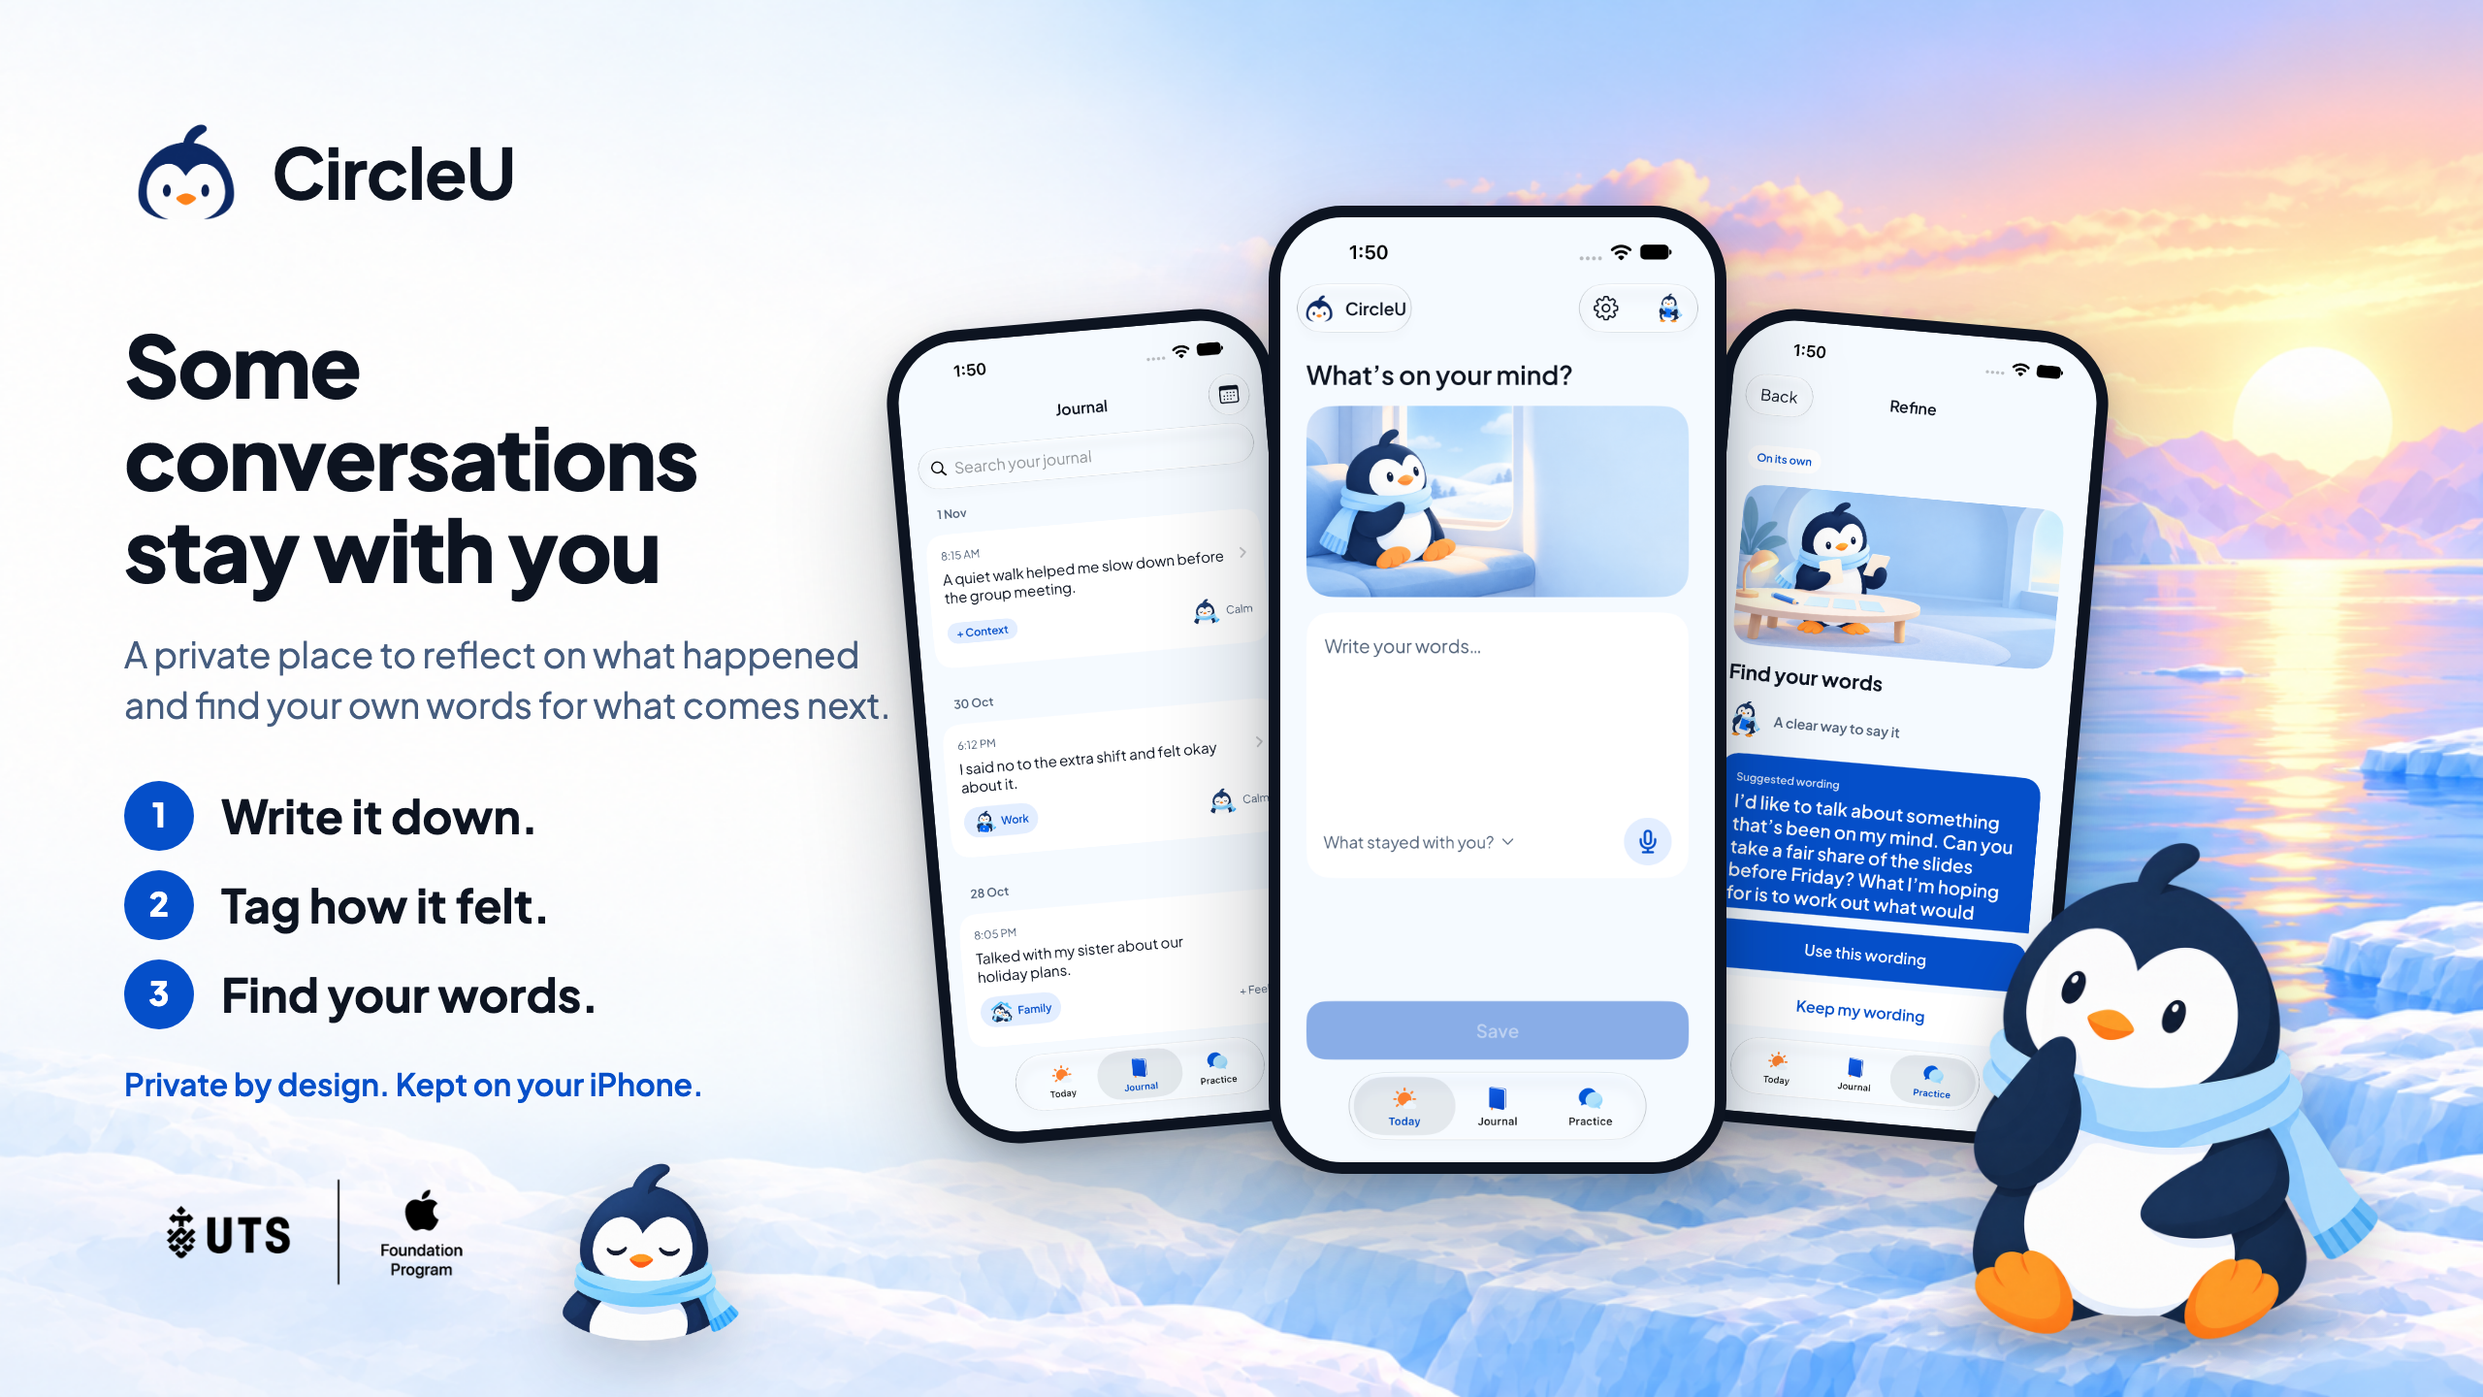
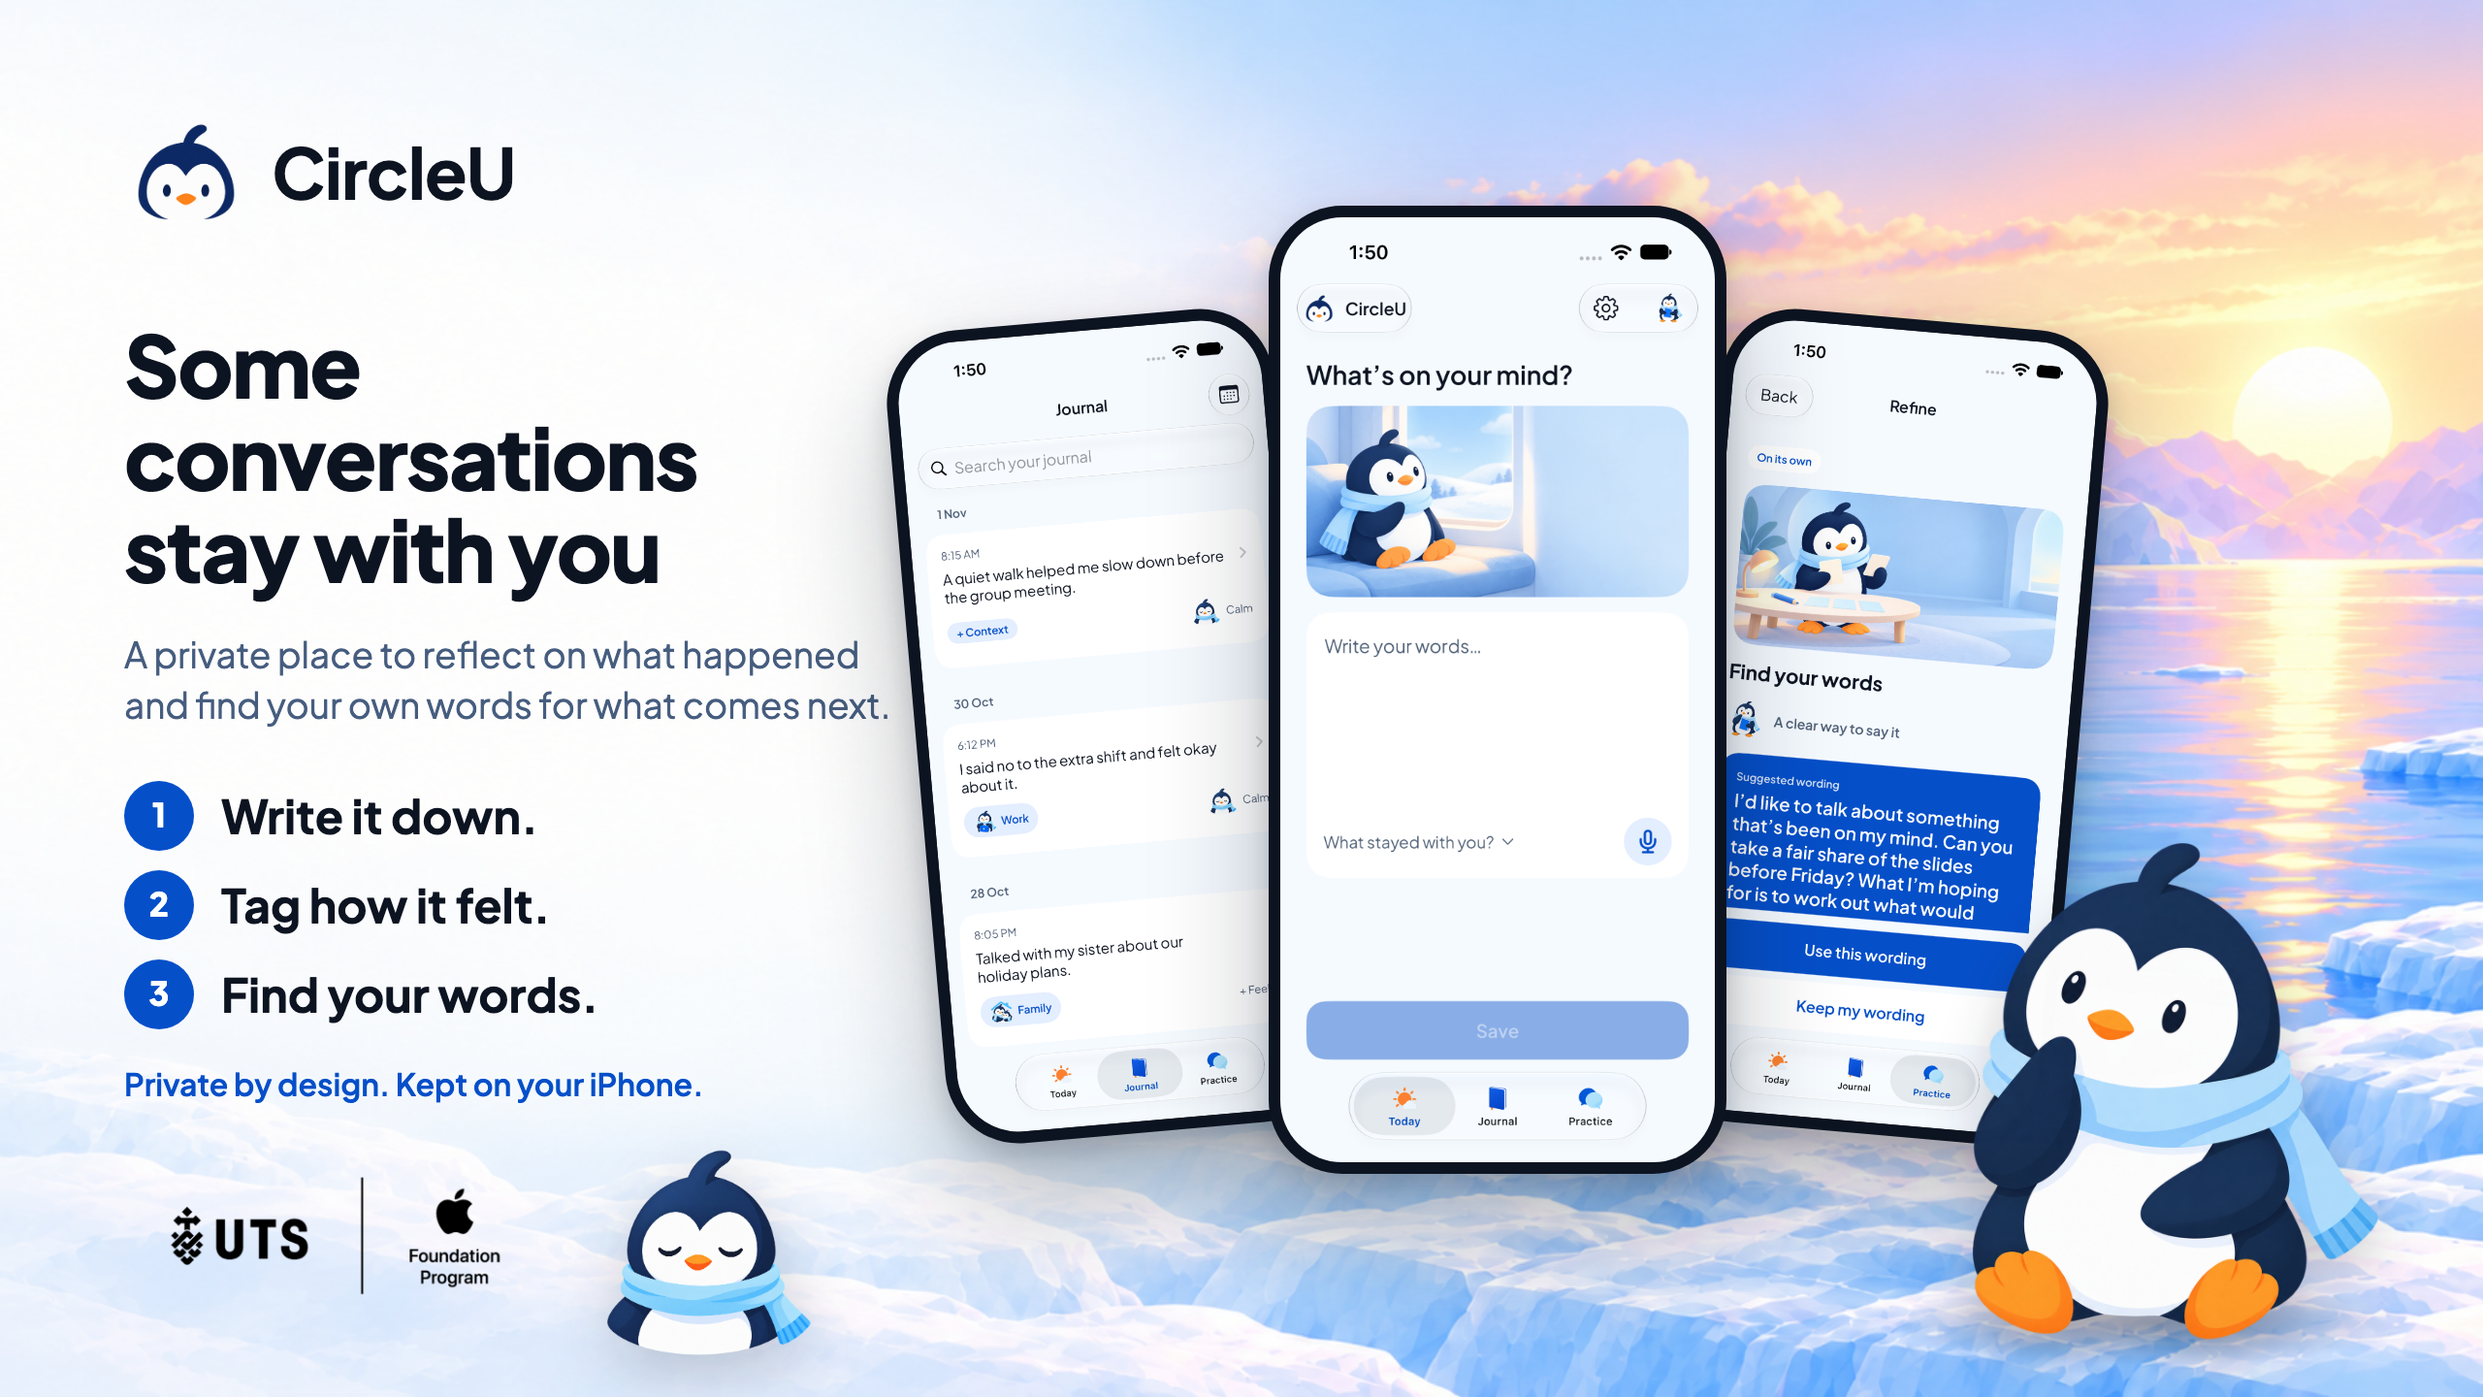
docs(poster): lockup blends on the LinkedIn page too, at Pingu's height; two more brand boards

Changed region(s): [[0.0625, 0.8125, 0.3438, 0.9688]]

diff --git a/docs/design/showcase-2026-10-30/refinement-07/linkedin/brand-2.html b/docs/design/showcase-2026-10-30/refinement-07/linkedin/brand-2.html
@@ -1,0 +1,46 @@
+<!doctype html><html lang="en"><head><meta charset="utf-8"><title>CircleU brand guideline · idea and logo</title>
+<style>
+@font-face{font-family:"Plus Jakarta Sans";src:url("assets/PlusJakartaSans.ttf");font-weight:200 800}
+*{box-sizing:border-box;margin:0;padding:0}html,body{width:1200px;height:627px;overflow:hidden}
+body{font-family:"Plus Jakarta Sans",sans-serif;color:#0d1421;background:#f5faff;padding:40px 48px;position:relative}
+.head{display:flex;align-items:center;gap:14px}.head img{width:50px;height:50px}.head b{font-size:30px;font-weight:800;letter-spacing:-.5px}
+.head small{margin-left:auto;font-size:14px;color:#465d7f;font-weight:600}
+.grid{display:grid;grid-template-columns:1.15fr 1fr 1fr;gap:24px;margin-top:26px;height:490px}
+.card{background:#fff;border-radius:22px;padding:22px 24px;box-shadow:0 8px 24px rgba(13,20,33,.06)}
+.card h3{font-size:12px;font-weight:700;color:#054fc9;text-transform:uppercase;letter-spacing:.08em;margin-bottom:12px}
+.idea p{font-size:15.5px;line-height:1.5;color:#2f4260;margin-bottom:10px}.idea p b{color:#0d1421}
+.idea .q{font-size:22px;font-weight:800;line-height:1.15;margin:4px 0 14px;letter-spacing:-.3px}
+.logo{display:flex;flex-direction:column;gap:14px}
+.logo .row{display:flex;align-items:center;gap:12px}.logo .row img{width:64px;height:64px}.logo .row b{font-size:34px;font-weight:800;letter-spacing:-.5px}
+.logo .mono{display:flex;gap:10px}.logo .mono div{flex:1;border-radius:14px;height:86px;display:flex;align-items:center;justify-content:center}
+.logo .mono img{width:56px;height:56px}
+.logo .clear{position:relative;border:1.5px dashed #b9cbe6;border-radius:14px;height:96px;display:flex;align-items:center;justify-content:center}
+.logo .clear img{width:48px;height:48px}.logo .clear span{position:absolute;font-size:10px;color:#6b7f9c}
+.logo p{font-size:12.5px;color:#465d7f;line-height:1.45}
+.mascot{display:flex;flex-direction:column}.mascot .faces{display:flex;justify-content:space-around;align-items:flex-end;margin:6px 0 10px}.mascot .faces img{width:88px;height:88px}
+.mascot p{font-size:13px;color:#465d7f;line-height:1.45}.mascot p b{color:#0d1421}
+.mascot .rules{margin-top:10px;display:grid;grid-template-columns:1fr 1fr;gap:6px 12px;font-size:12px;color:#2f4260}
+.mascot .rules span::before{content:"✓ ";color:#054fc9;font-weight:800}.mascot .rules span.x::before{content:"✕ ";color:#c0392b}
+</style></head><body>
+<div class="head"><img src="assets/logo.png" alt=""><b>CircleU</b><small>Brand guideline · 1 of 2 · Idea, logo, mascot</small></div>
+<div class="grid">
+  <div class="card idea"><h3>Idea and motivation</h3>
+    <div class="q">Some conversations stay with you.</div>
+    <p><b>The moment.</b> You replay a hard conversation and still don't know what you should have said. Students told us this in our Miro sessions more than anything else.</p>
+    <p><b>The promise.</b> A private place to write it down, tag how it felt, and find your own words for next time. Nothing is uploaded.</p>
+    <p><b>The name.</b> <b>Circle</b> for the people around you, <b>U</b> for you at the centre and for university.</p>
+    <p><b>The character.</b> Warm, clear, composed. Companionship without cheerleading: Pingu never celebrates a bad day.</p>
+  </div>
+  <div class="card logo"><h3>Logo</h3>
+    <div class="row"><img src="assets/logo.png" alt=""><b>CircleU</b></div>
+    <p>Mark: Pingu's face in ink and white, readable at 24 px, on white, ice or sky. Wordmark: Plus Jakarta Sans ExtraBold, ink. Always mark then word.</p>
+    <div class="mono"><div style="background:#fff;border:1px solid #dbe7f5"><img src="assets/logo.png"></div><div style="background:#f5faff;border:1px solid #dbe7f5"><img src="assets/logo.png"></div><div style="background:#47c7ff"><img src="assets/logo.png"></div></div>
+    <div class="clear"><img src="assets/logo.png" alt=""><span style="top:6px;left:50%;transform:translateX(-50%)">clear space = beak height</span><span style="bottom:6px;left:50%;transform:translateX(-50%)">minimum 24 px</span></div>
+  </div>
+  <div class="card mascot"><h3>Mascot · Pingu</h3>
+    <div class="faces"><img src="assets/pingu-Calm.png"><img src="assets/pingu-Happy.png"><img src="assets/pingu-Worried.png"><img src="assets/pingu-Overloaded.png"></div>
+    <p><b>One face, many moments.</b> The same eyes, beak and scarf in every portrait, scene and icon, so a tiny tag and a full scene read as one character.</p>
+    <div class="rules"><span>welcome and empty states</span><span>scenes above the editor</span><span>feeling tags</span><span class="x">inside the text you write</span><span class="x">as a mood score</span><span class="x">cheering on error states</span></div>
+  </div>
+</div>
+</body></html>

diff --git a/docs/design/showcase-2026-10-30/refinement-07/poster-linkedin.html b/docs/design/showcase-2026-10-30/refinement-07/poster-linkedin.html
@@ -8,10 +8,12 @@
   * { box-sizing: border-box; margin: 0; padding: 0; }
   html, body { width: 1200px; height: 627px; overflow: hidden; }
   .page { position: absolute; left: 43px; top: 0; width: 1280px; height: 720px; transform: scale(.87); transform-origin: 0 0; }
+  .page::before { content: ""; position: absolute; left: -50px; right: -50px; top: -30px; bottom: -30px; z-index: -1;
+                  background: #f5faff url("assets/background.png") center / cover no-repeat; }
   body {
     font-family: "Plus Jakarta Sans", -apple-system, sans-serif; color: #0d1421;
     background: #f5faff url("assets/background.png") center / cover no-repeat;
-    position: relative;
+    position: relative; isolation: auto;
   }
   /* soft "ice" bands */
   .band { position: absolute; left: 520px; right: -80px; height: 150px; border-radius: 120px;
@@ -37,9 +39,9 @@
   .steps li::before { content: counter(step); width: 36px; height: 36px; border-radius: 50%; background: #054fc9; color: #fff;
                       font-size: 17px; font-weight: 800; display: inline-flex; align-items: center; justify-content: center; flex: none; }
   .trust { margin-top: 18px; font-size: 16px; font-weight: 600; color: #054fc9; }
-  .foot { position: absolute; left: 66px; bottom: 30px; display: flex; align-items: flex-end; gap: 22px; }
-  .foot img.lockup { height: 108px; mix-blend-mode: multiply; }
-  .foot img.pingu { height: 104px; margin-bottom: -6px; filter: drop-shadow(0 10px 16px rgba(13,20,33,.2)); }
+  .foot { position: absolute; left: 66px; bottom: 22px; display: flex; align-items: flex-end; gap: 22px; }
+  .foot img.lockup { height: 120px; mix-blend-mode: multiply; }
+  .foot img.pingu { height: 120px; margin-bottom: -6px; filter: drop-shadow(0 10px 16px rgba(13,20,33,.2)); }
 
   .phones { position: absolute; left: 472px; top: 44px; width: 600px; height: 676px; }
   .phone { position: absolute; border-radius: 38px; background: #0d1421; padding: 6px;

diff --git a/docs/design/showcase-2026-10-30/refinement-07/linkedin/brand-3.html b/docs/design/showcase-2026-10-30/refinement-07/linkedin/brand-3.html
@@ -1,0 +1,22 @@
+<!doctype html><html lang="en"><head><meta charset="utf-8"><title>CircleU brand guideline · mockups</title>
+<style>
+@font-face{font-family:"Plus Jakarta Sans";src:url("assets/PlusJakartaSans.ttf");font-weight:200 800}
+*{box-sizing:border-box;margin:0;padding:0}html,body{width:1200px;height:627px;overflow:hidden}
+body{font-family:"Plus Jakarta Sans",sans-serif;color:#0d1421;background:#f5faff url("assets/background.png") center/cover no-repeat;position:relative}
+.head{position:absolute;left:48px;top:36px;display:flex;align-items:center;gap:14px}.head img{width:50px;height:50px}.head b{font-size:30px;font-weight:800;letter-spacing:-.5px}
+.cap{position:absolute;right:48px;top:48px;font-size:14px;color:#465d7f;font-weight:600}
+.phones{position:absolute;left:150px;top:96px;display:flex;gap:44px;align-items:flex-start}
+.p{position:relative;width:212px}.p img{display:block;width:100%;border-radius:28px;border:5px solid #0d1421;box-shadow:0 24px 50px rgba(13,20,33,.25)}
+.p span{display:block;text-align:center;margin-top:12px;font-size:15px;font-weight:700;color:#054fc9}
+.p small{display:block;text-align:center;font-size:12px;color:#465d7f;margin-top:2px}
+.note{position:absolute;right:48px;bottom:14px;font-size:12px;color:#465d7f}
+</style></head><body>
+<div class="head"><img src="assets/logo.png" alt=""><b>CircleU</b></div>
+<div class="cap">Brand guideline · 2 of 2 · In use</div>
+<div class="phones">
+  <div class="p"><img src="assets/app-today.png" alt=""><span>Today</span><small>Window pause scene, one Save</small></div>
+  <div class="p"><img src="assets/app-journal.png" alt=""><span>Journal</span><small>Context chip, feeling portrait</small></div>
+  <div class="p"><img src="assets/app-practice.png" alt=""><span>Practice</span><small>Refine workbench, one suggestion</small></div>
+</div>
+<div class="note">Screens from the SwiftUI build, 1 November 2026</div>
+</body></html>

diff --git a/docs/design/showcase-2026-10-30/refinement-07/poster.html b/docs/design/showcase-2026-10-30/refinement-07/poster.html
@@ -36,10 +36,10 @@
   .steps li::before { content: counter(step); width: 36px; height: 36px; border-radius: 50%; background: #054fc9; color: #fff;
                       font-size: 17px; font-weight: 800; display: inline-flex; align-items: center; justify-content: center; flex: none; }
   .trust { margin-top: 18px; font-size: 16px; font-weight: 600; color: #054fc9; }
-  .foot { position: absolute; left: 66px; bottom: 30px; display: flex; align-items: flex-end; gap: 22px; }
+  .foot { position: absolute; left: 66px; bottom: 22px; display: flex; align-items: flex-end; gap: 22px; }
   /* The official lockup is black on white; multiply lets the ice show through its white box. */
-  .foot img.lockup { height: 108px; mix-blend-mode: multiply; }
-  .foot img.pingu { height: 104px; margin-bottom: -6px; filter: drop-shadow(0 10px 16px rgba(13,20,33,.2)); }
+  .foot img.lockup { height: 120px; mix-blend-mode: multiply; }
+  .foot img.pingu { height: 120px; margin-bottom: -6px; filter: drop-shadow(0 10px 16px rgba(13,20,33,.2)); }
 
   .phones { position: absolute; left: 472px; top: 44px; width: 600px; height: 676px; }
   .phone { position: absolute; border-radius: 38px; background: #0d1421; padding: 6px;

diff --git a/docs/design/showcase-2026-10-30/refinement-07/README.md b/docs/design/showcase-2026-10-30/refinement-07/README.md
@@ -14,7 +14,7 @@
 | Journal, Today and Practice screens | `GuestShowcaseCaptureUITests.testCaptureShowcaseScreens` on the iPhone 18 Pro Simulator, iOS 27.0: a Journal seeded by the Debug launch argument `-CircleUSeedShowcase` with three tagged entries on three days (today, two and four days ago), the empty Today screen, and the Practice result for an invented group-project message with guided suggestions |
 | Background, wordmark and Pingu | `refinement-04/assets/arctic-background.png`, `BrandArtwork/Expansion05/PinguConsideringV1.png`, `BrandArtwork/BrandLogo.png` and `EmotionPortraits02/PinguCalmTransparentV1.png`, all unchanged files |
 | Type | Bundled Plus Jakarta Sans; headline 44 px, intro 18.5 px, steps 24 px, trust line 16 px on the 1280 × 720 canvas |
-| Program lockup | The same UTS Apple Foundation Program image as refinement 04–06, shown at 108 px with `mix-blend-mode: multiply` so its white box lets the ice through (the owner's final choice); the mark itself is unchanged. Not a claim of endorsement |
+| Program lockup | The same UTS Apple Foundation Program image as refinement 04–06, shown at 120 px (Pingu's height) with `mix-blend-mode: multiply` so its white box lets the ice through (the owner's final choice); the mark itself is unchanged. Not a claim of endorsement |
 
 Owner review, 1 November: background is the existing empty arctic scene (refinement 04) with the sitting, considering Pingu from refinement-04 slide 2 (`Expansion05/PinguConsideringV1.png`) on the ice shelf at the right with a ground shadow, the screen captions and the two footer notes are removed, Pingu sits beside the program lockup, the example quotes are replaced by three steps (Write it down. Tag how it felt. Find your words.) with the line "Private by design. Kept on your iPhone.", and the phones are back at full size between the copy and Pingu. The poster carries no "Design mockups" disclaimer because the screens are real.
 

diff --git a/docs/design/showcase-2026-10-30/refinement-07/linkedin/README.md b/docs/design/showcase-2026-10-30/refinement-07/linkedin/README.md
@@ -2,7 +2,7 @@
 
 1 November 2026. Three 1200 × 627 (rendered at 2×) images for the owner's LinkedIn post about the Miro → Figma → SwiftUI journey, built the same way as the poster (HTML master, headless Chrome).
 
-- [Brand guideline board](CircleU-LinkedIn-brand.png) from [brand.html](brand.html): palette, type, icons, a scene and four feeling portraits, all existing assets.
+- Brand guideline, three boards from existing assets: [idea, logo, mascot](CircleU-LinkedIn-brand-2.png) ([brand-2.html](brand-2.html)), [palette, type, icons, scenes, feelings](CircleU-LinkedIn-brand.png) ([brand.html](brand.html)), [in use](CircleU-LinkedIn-brand-3.png) ([brand-3.html](brand-3.html)). The clear-space and minimum-size figures on the logo board are proposals; the branding guideline's lockup rules are still an open deliverable.
 - [Figma prototype board](CircleU-LinkedIn-figma.png) from [figma.html](figma.html): five frames exported from the `CircleU • current prototype` page, laid out on a Figma-styled canvas with real counts (130 frames, 1,669 links). It is a composed image, not a screenshot of the Figma app.
 - The poster's LinkedIn version lives one folder up.
 
